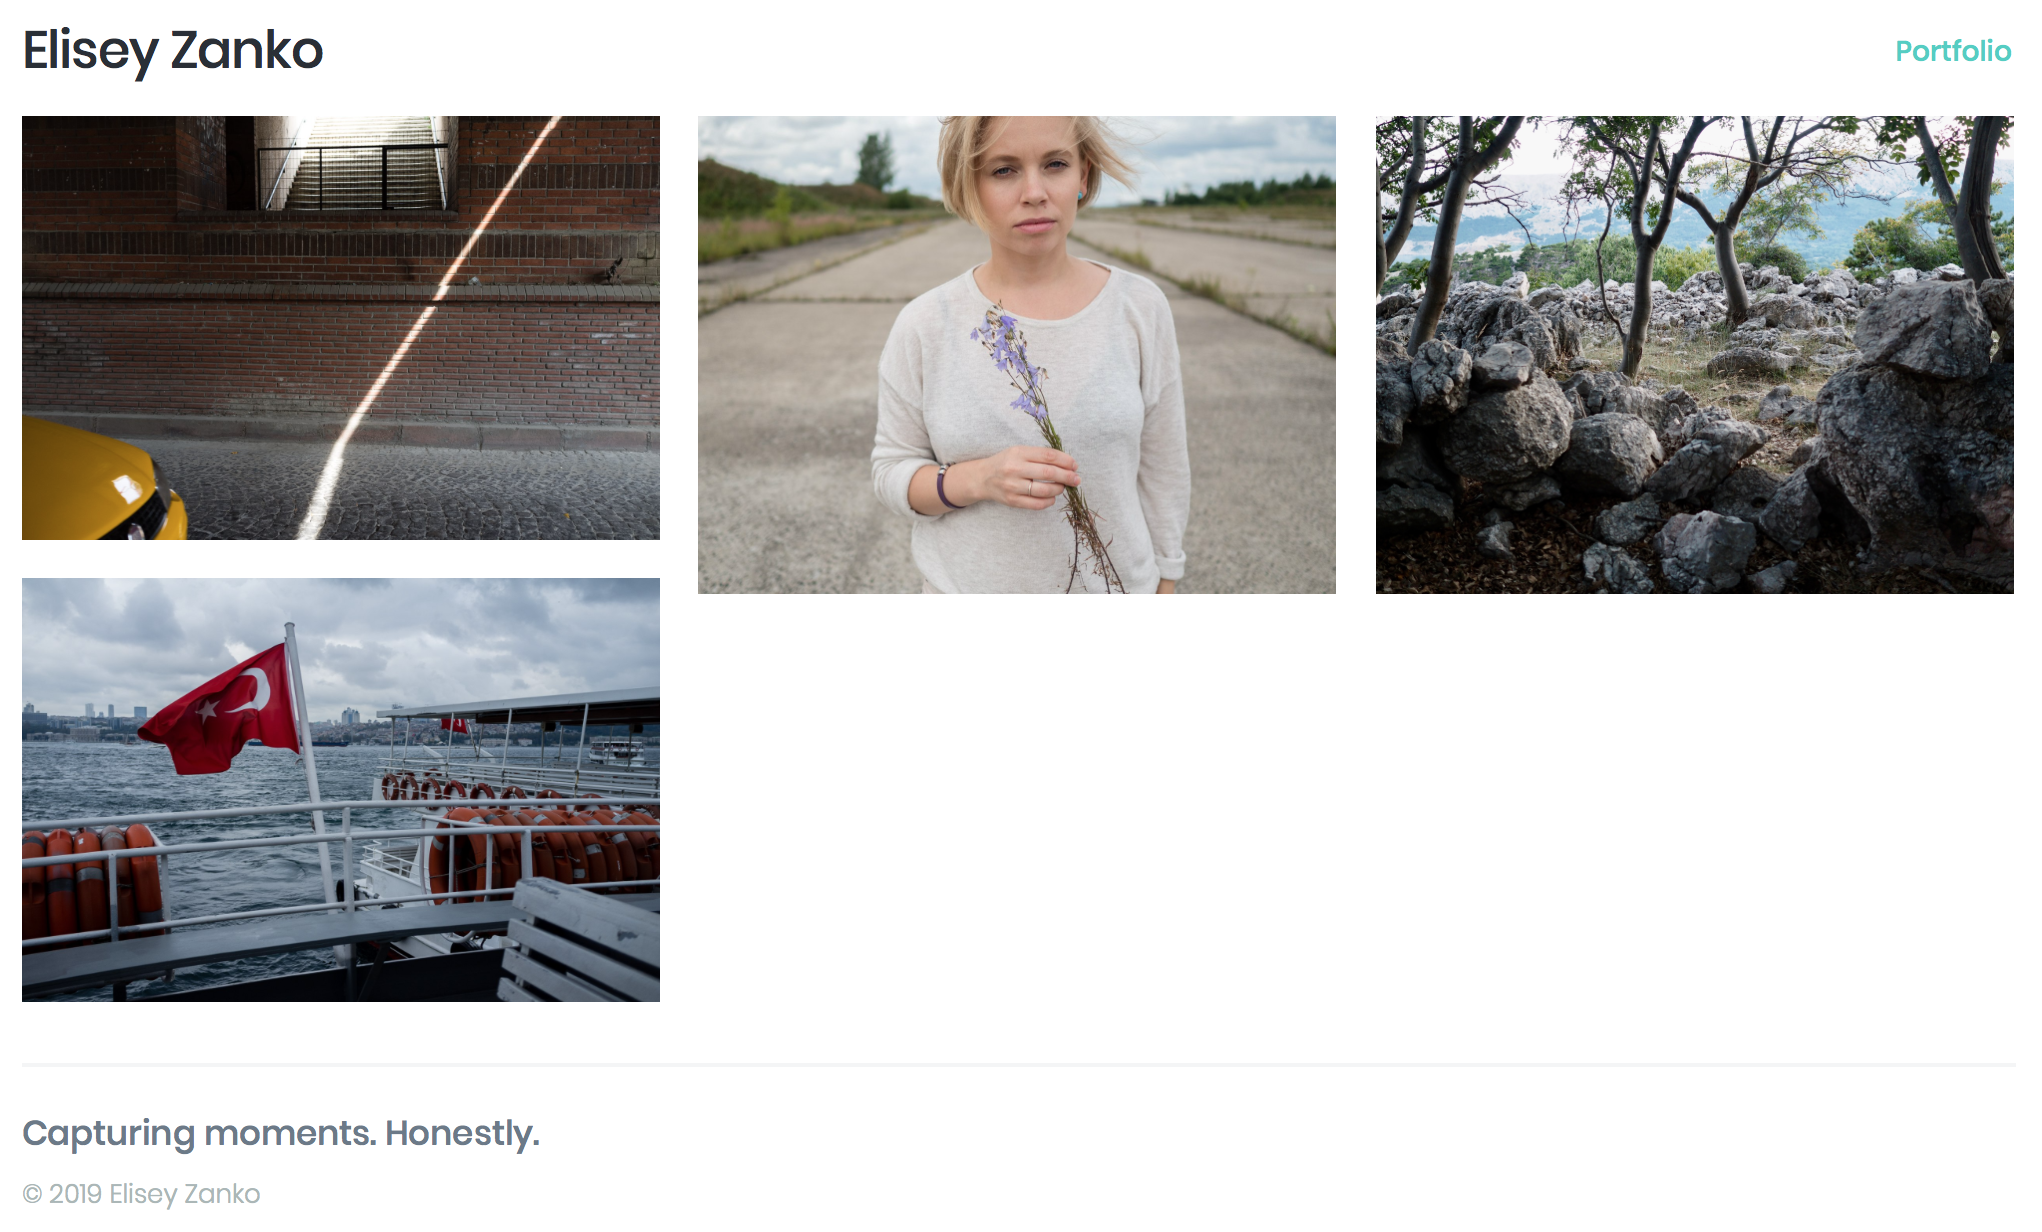
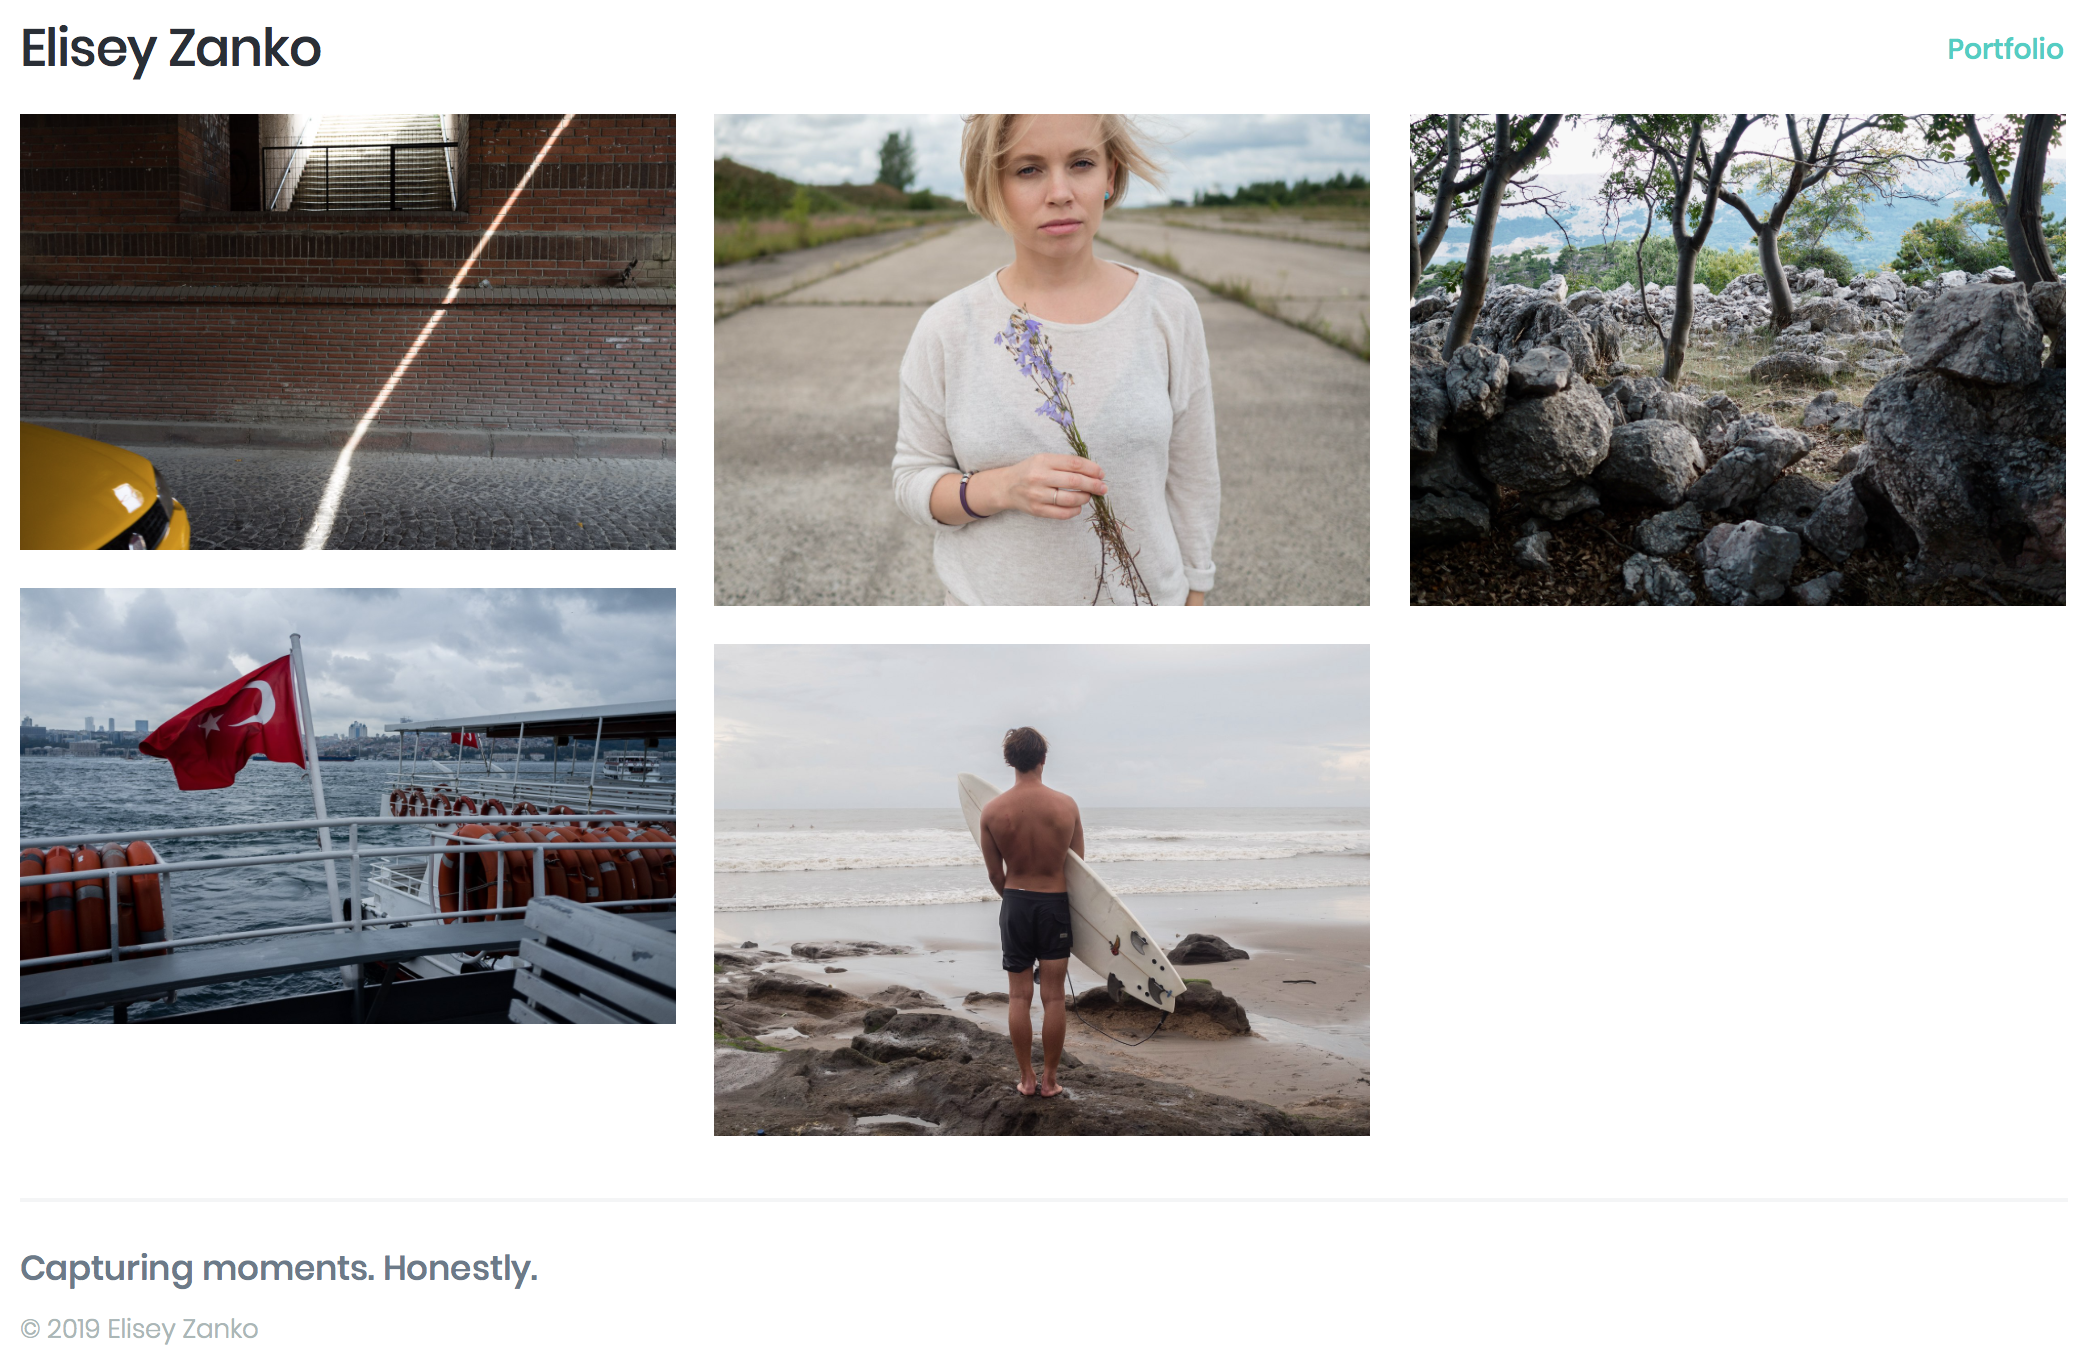
Add Bali

diff --git a/_projects/bali.md b/_projects/bali.md
@@ -1,0 +1,15 @@
+---
+title: 'Bali'
+subtitle: 'January 2017'
+featured_image: '/images/portfolio/bali/004.jpg'
+---
+
+<div class="gallery" data-columns="3">
+    <img src="/images/portfolio/bali/001.jpg">
+    <img src="/images/portfolio/bali/002.jpg">
+    <img src="/images/portfolio/bali/003.jpg">
+    <img src="/images/portfolio/bali/004.jpg">
+    <img src="/images/portfolio/bali/005.jpg">
+    <img src="/images/portfolio/bali/006.jpg">
+    <img src="/images/portfolio/bali/007.jpg">
+</div>
